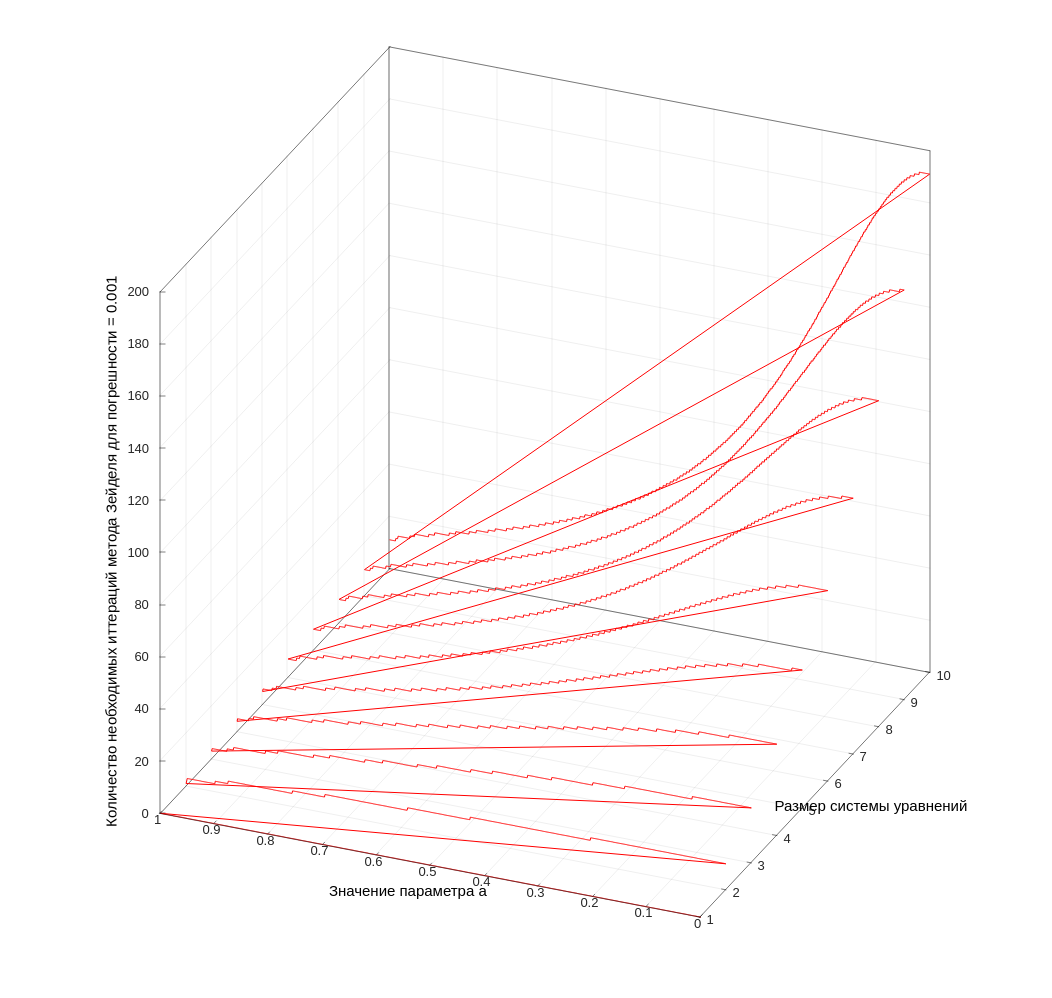
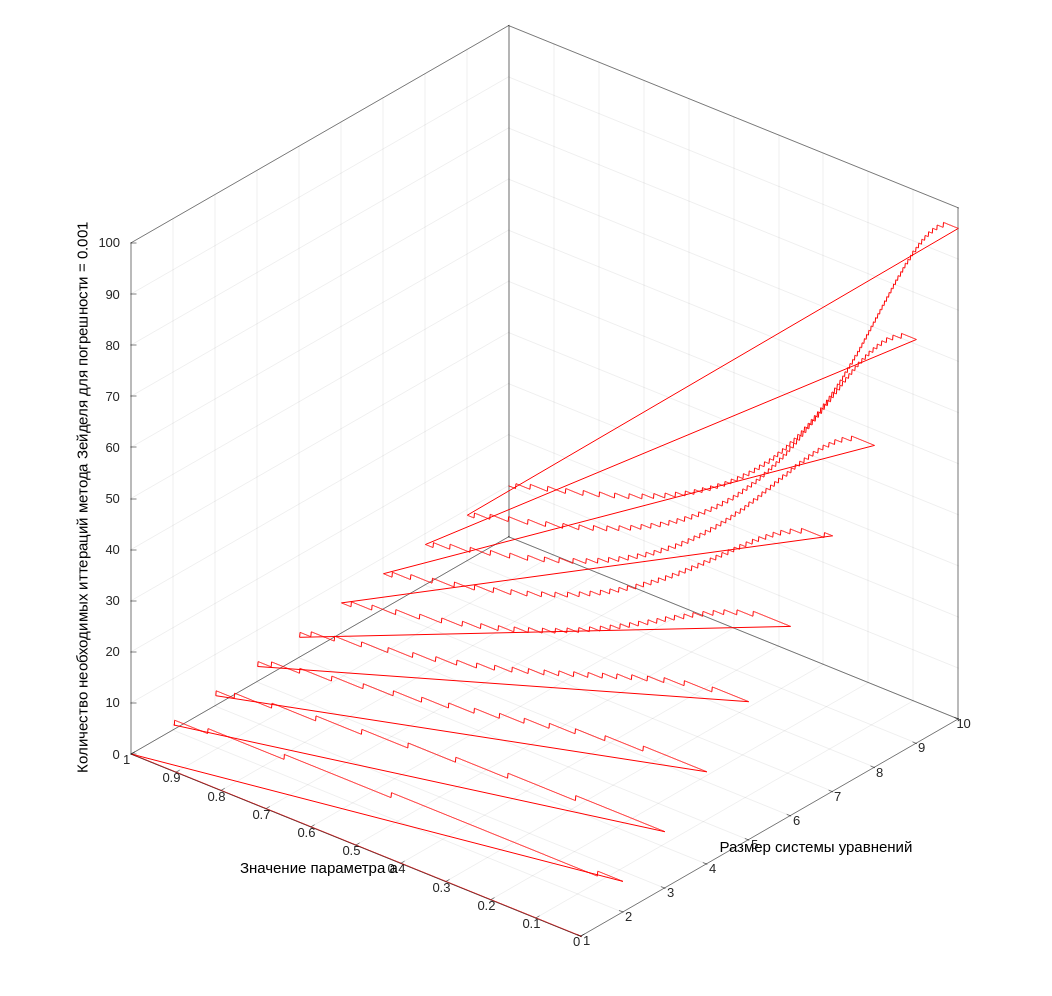
some changes in algo

diff --git a/1_lab/second_task/srcs/seidel.cc b/1_lab/second_task/srcs/seidel.cc
@@ -1,4 +1,4 @@
-#include "../libs/seidel.hh"
+#include "seidel.hh"
 
 matrix<double> get_right_matrix(size_t n, double a) {
     matrix<double> A(n, n);
@@ -56,10 +56,10 @@ matrix<double> &seidel_method::get_k_itter(const size_t k) {
 void seidel_method::get_new_k_itter (const size_t k) {
     matrix<double> new_itter = _d;
     for (size_t i = 0; i < new_itter.size1(); ++i) {
-        for (size_t j = 0; (i != 0) && j < i - 1; ++j) 
-            new_itter(i, 0) += _c(i, j) * new_itter(j, 0);
-        for (size_t j = 0; j < new_itter.size1(); ++j) 
-            new_itter(i, 0) += _c(i, j) * get_k_itter(k - 1)(j, 0);
+        for (size_t j = 0; (i != 0) && j <= i - 1; ++j) {
+            new_itter(i, 0) += _c(i, j) * new_itter(j, 0); }
+        for (size_t j = i; j < new_itter.size1(); ++j) {
+            new_itter(i, 0) += _c(i, j) * get_k_itter(k - 1)(j, 0); }
     }
     _itter.push_back(new_itter);
 }

diff --git a/1_lab/second_task/srcs/main.cc b/1_lab/second_task/srcs/main.cc
@@ -2,10 +2,10 @@
 
 int main () {
     size_t n_upper      = 10 ;
-    size_t seidel_upper = 1000;
+    size_t seidel_upper = 10000;
 
     double dt = 0.001;
-    double dx = 0.001;
+    double dx = 0.01;
 
     std::vector<size_t> n_vector = {};
     std::vector<double> a_vector = {};
